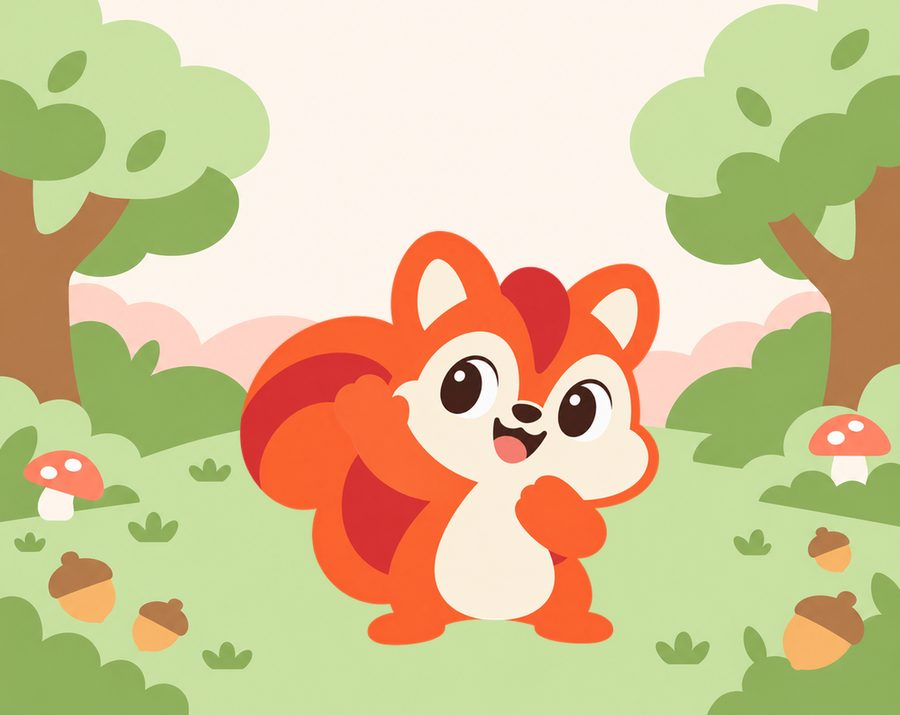
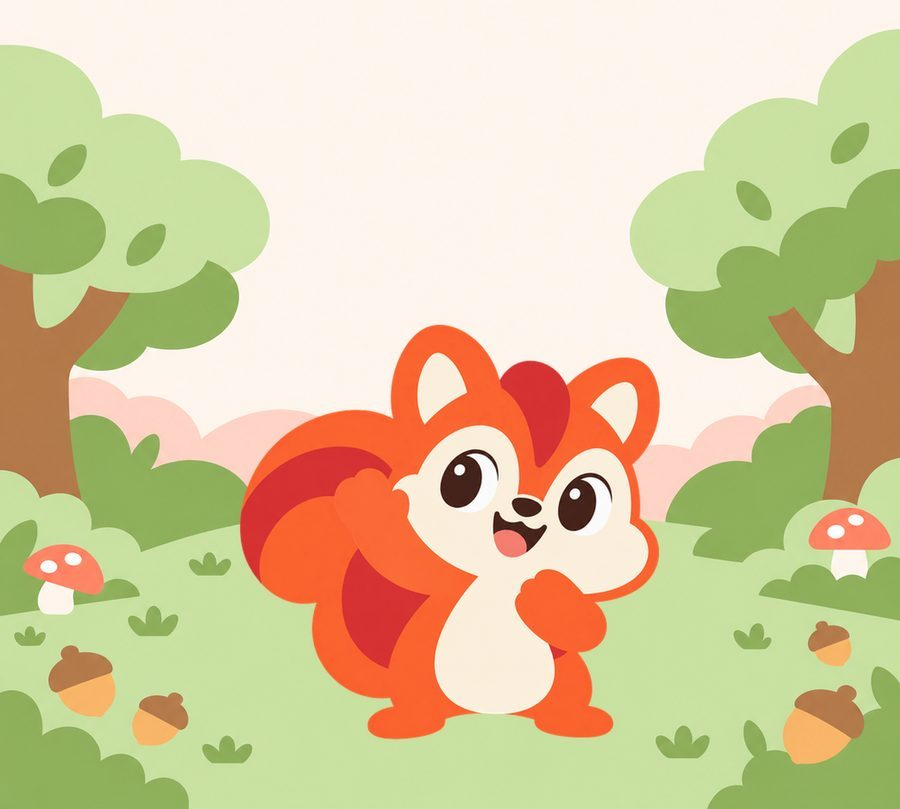
MunchCal のリンクのページ：場面の絵の木の上を切らない
背景の絵を下だけでなく木の上まで使い、木より上の空だけを少し切る。空の色はページの背景と同じなのでつながる。

diff --git a/munchcal/index.html b/munchcal/index.html
@@ -52,7 +52,7 @@
   .badges img{height:50px;width:auto}
   .badges.one img{height:60px}
   .scene{margin:20px -16px 0}
-  .scene img{width:100%;height:auto;aspect-ratio:900/715}
+  .scene img{width:100%;height:auto;aspect-ratio:900/809}
   .shots-wrap{background:var(--grass);padding:4px 0 32px}
   .shots-wrap h2{font-size:20px;text-align:center;margin:0 0 16px;padding:24px 16px 0}
   .shots{display:flex;gap:12px;overflow-x:auto;scroll-snap-type:x mandatory;padding:0 16px 4px;max-width:1040px;margin:0 auto;scrollbar-width:none}
@@ -88,7 +88,7 @@
       <a id="android" href="https://play.google.com/store/apps/details?id=jp.co.starwiz.pakumi" aria-label="Google Play で手に入れよう"><img id="andImg" src="/img/badges/googleplay-ja.png" alt="Google Play で手に入れよう" height="50"></a>
     </div>
   </div>
-  <div class="scene"><img id="hero" src="/img/munchcal/hero.jpg" width="900" height="715" alt="手をふるシマリスのマンチ"></div>
+  <div class="scene"><img id="hero" src="/img/munchcal/hero.jpg" width="900" height="809" alt="手をふるシマリスのマンチ"></div>
 </section>
 <section class="shots-wrap">
   <h2 id="h2">食事の記録が、毎日の楽しみに。</h2>
